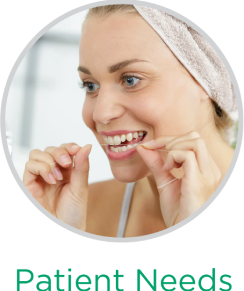
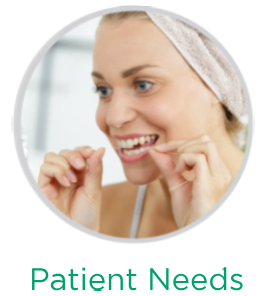
updated btc and toothbrush intro page image links (tech and patient needs)

diff --git a/src/routes/Btc/Btc.styles.ts b/src/routes/Btc/Btc.styles.ts
@@ -139,6 +139,6 @@ export const LinkImg = styled.img`
   }
 
   @media screen and (min-width: 2300px) {
-    width: 12vw;
+    width: 13vw;
  }
 `;

diff --git a/src/routes/Toothbrush/Toothbrush.styles.ts b/src/routes/Toothbrush/Toothbrush.styles.ts
@@ -145,6 +145,6 @@ export const LinkImg = styled.img`
   }
 
   @media screen and (min-width: 2300px) {
-    width: 12vw;
+    width: 13vw;
  }
 `;
